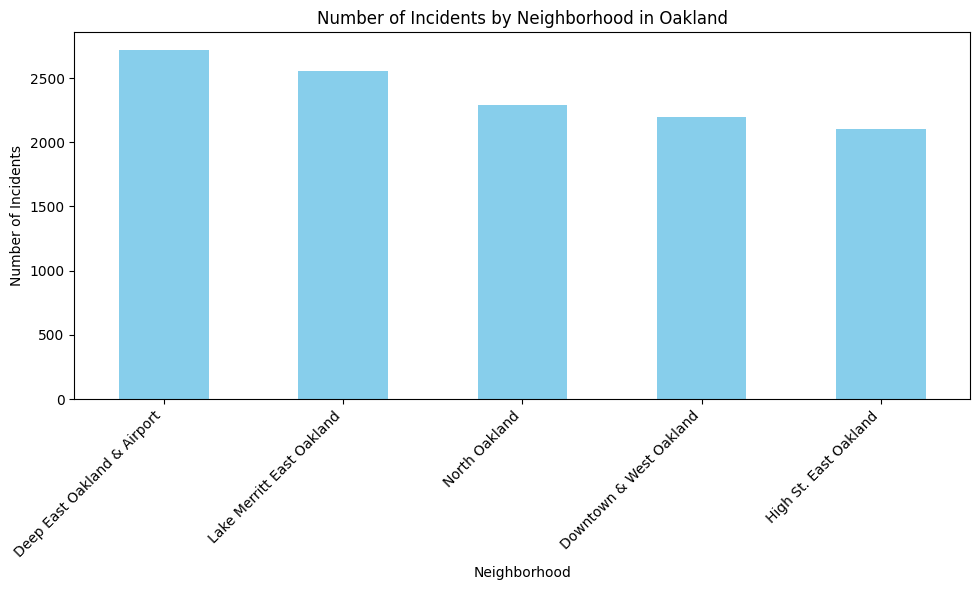
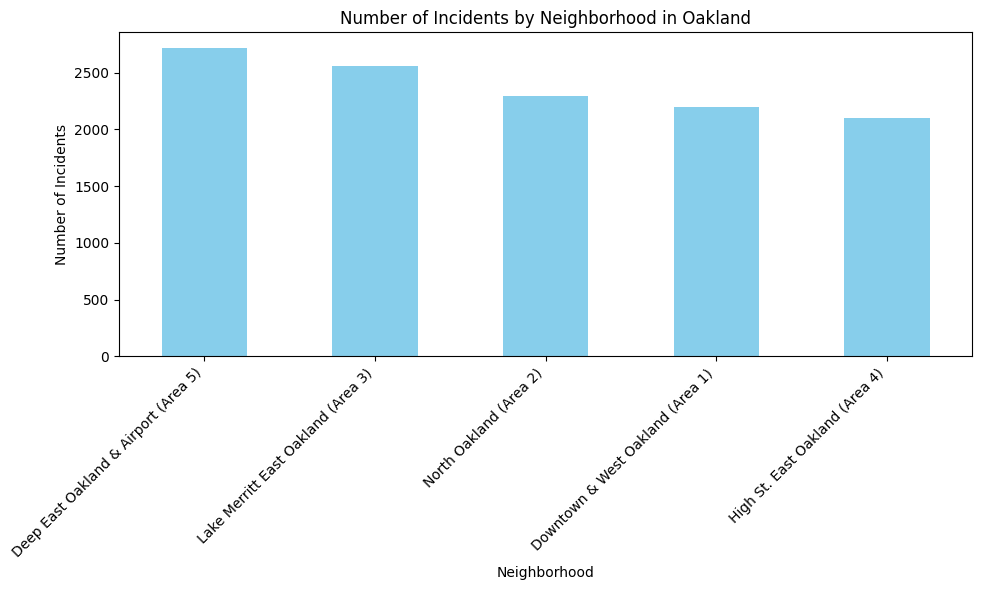
rephrase question 2

diff --git a/projects/async-grey-robert-final-project/README.md b/projects/async-grey-robert-final-project/README.md
@@ -20,8 +20,8 @@ CrimeWatch Maps Past 90-Days - (https://data.oaklandca.gov/Public-Safety/CrimeWa
   - Answer: Vehicle Theft by far, followed by Robbery and Misdemeanor Assault.
   - Visualization: ![Q1 Visualization](visualizations/crime-type-dist.png)
 
-- [x] Question 2: *How does the frequency of different crime types vary by neighborhood?*
-  - Answer: The most incidents occured near International Blvd. followed by 2 districs in Downtown Oakland.
+- [x] Question 2: *How does the frequency of different crime types vary by beat code?*
+  - Answer: The most incidents occured in beats near International Blvd. followed by 2 beats in Downtown Oakland.
   - Visualization: ![Q2 Visualization](visualizations/crime-beat-dist.png)
 
 - [x] Question 3: *What areas have the highest crime rate?*
